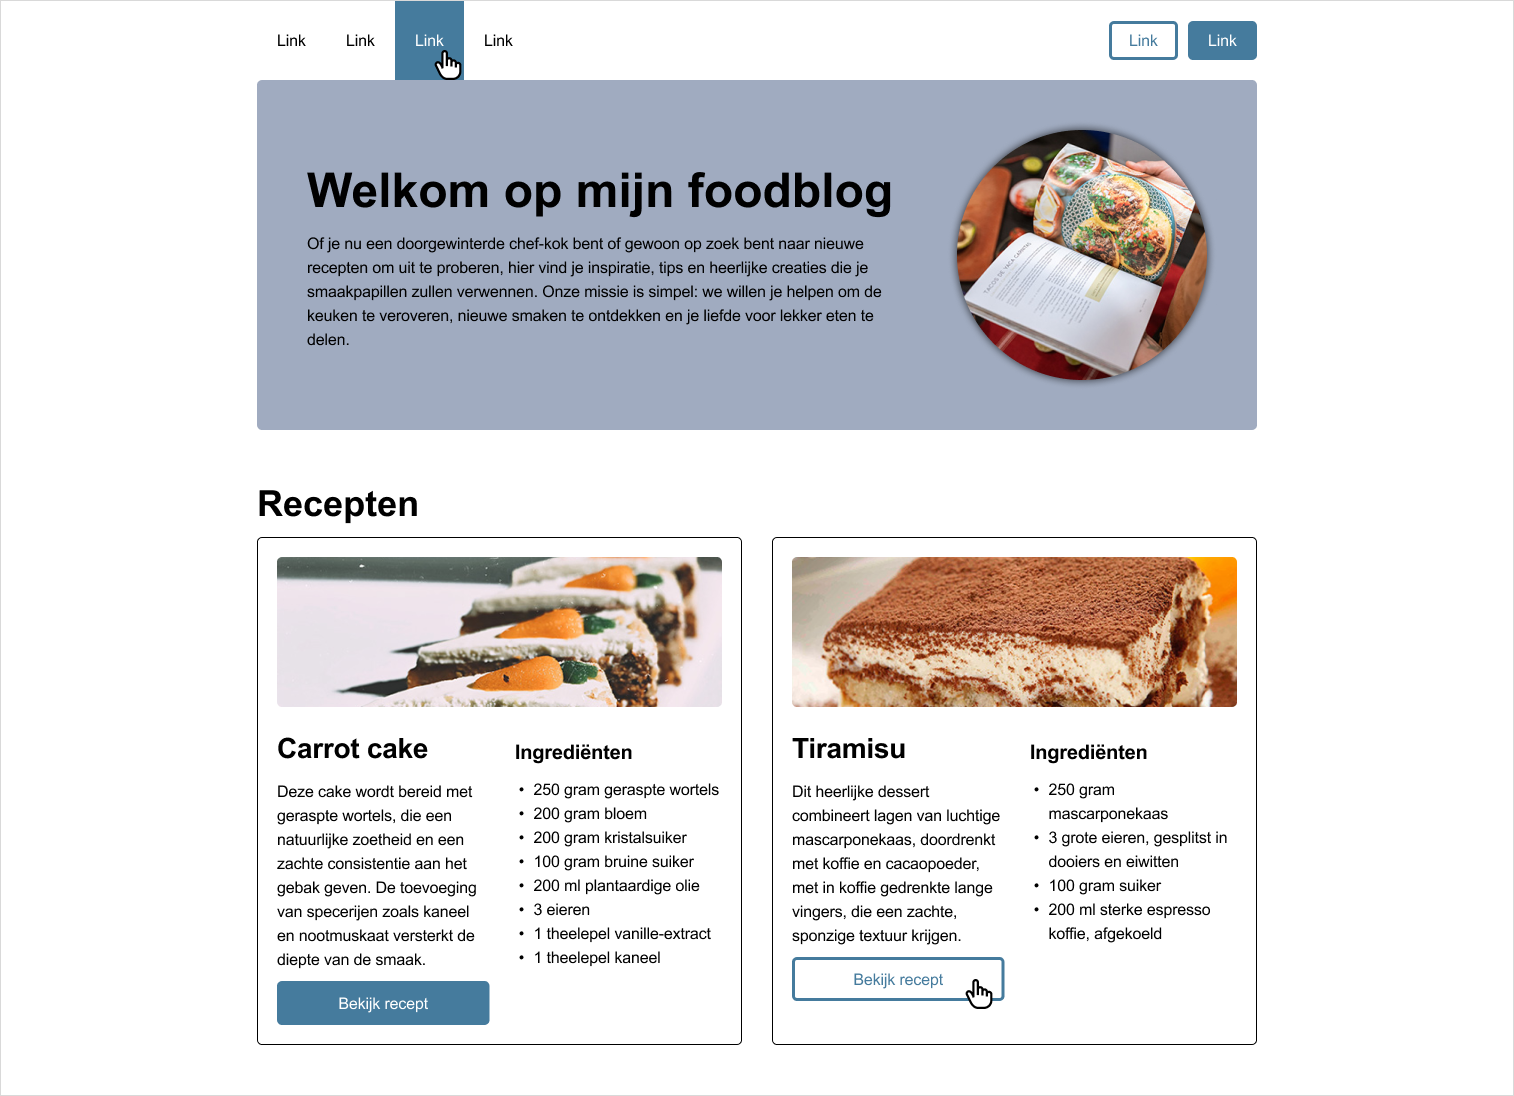
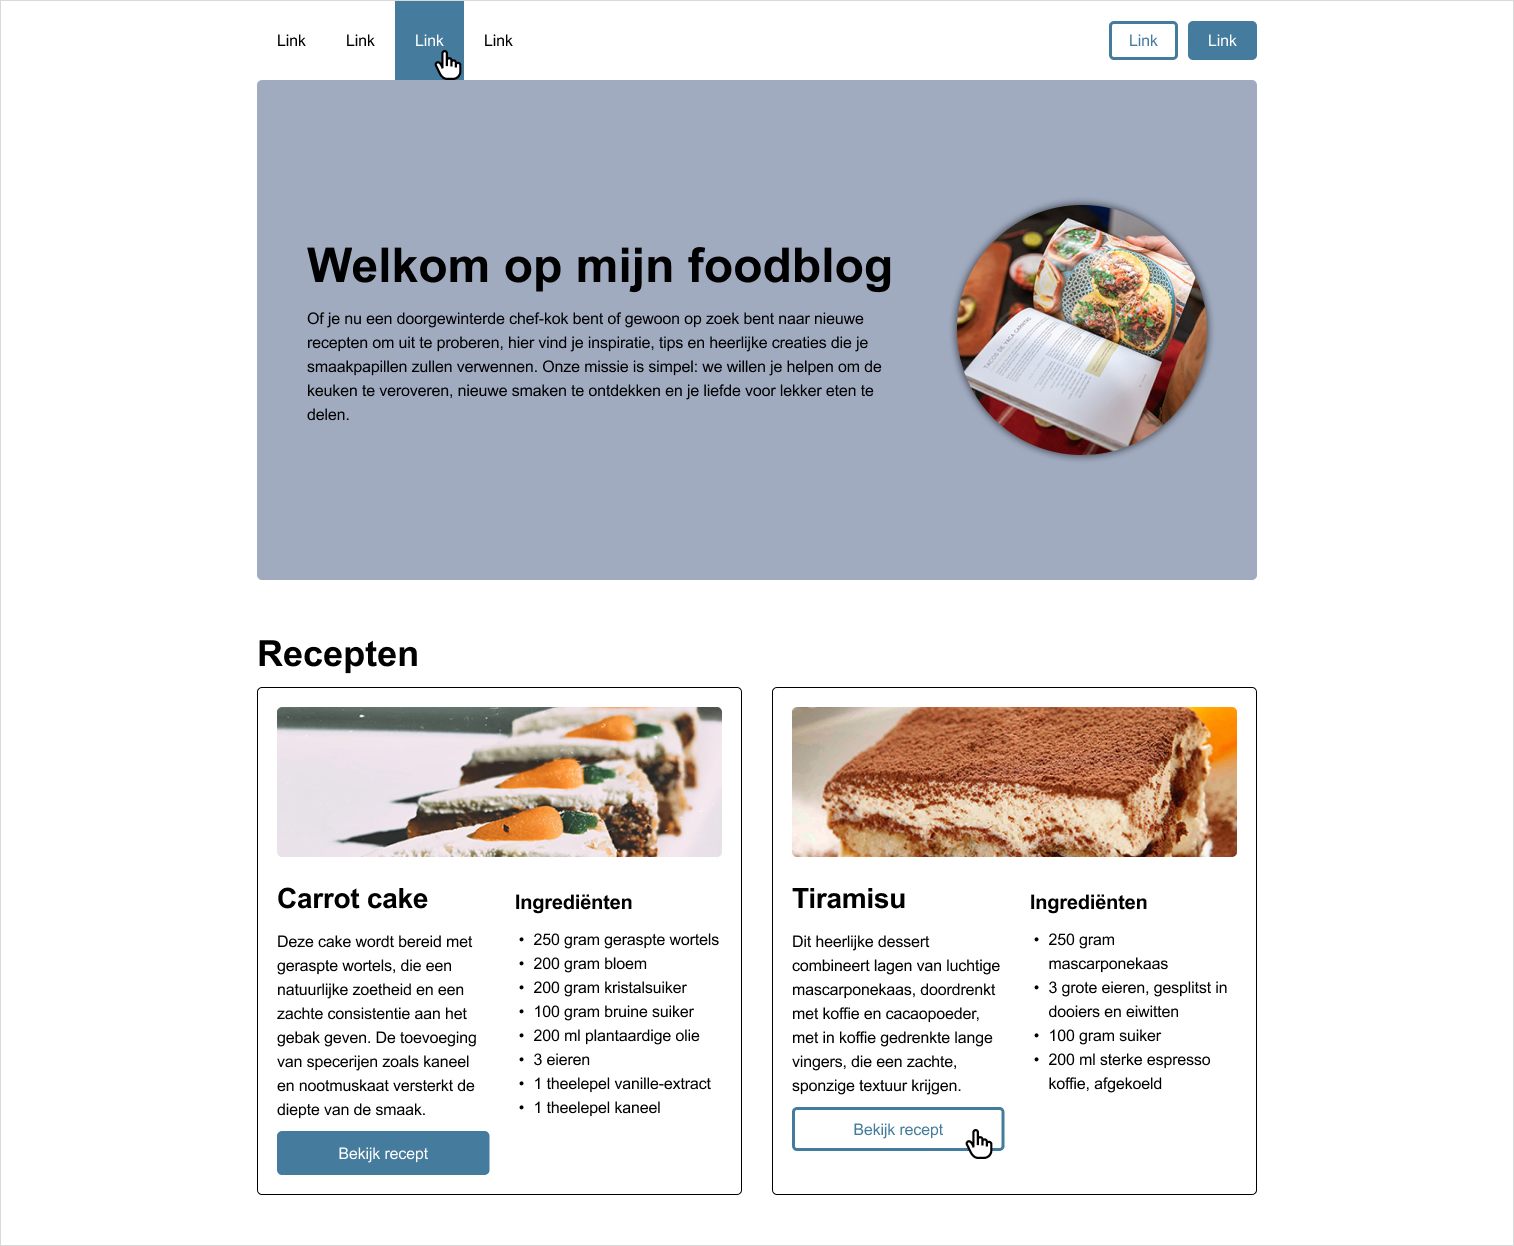
Update

Changed region(s): [[0.1552, 0.0, 0.8382, 0.9617], [0.1863, 0.1551, 0.5898, 0.3412]]

diff --git a/les2/README.md b/les2/README.md
@@ -371,7 +371,7 @@ Je hebt hier het volgende voor nodig:
 
 Breidt jouw webpagina uit door gebruik te maken van absoliute en relatieve units. Voer de volgende stappen uit:
 
-- Zorg ervoor dat de header de helft van de hoogte van het scherm is;
+- Zorg ervoor dat de `<header>` de helft van de hoogte van het scherm is;
 - Voeg de afbeeldingen van de Pokémon toe in een wit vierkant van 150px. Zorg ervoor dat de afbeelding altijd zo breed is als het vierkant (de hoogte groeit dan automatisch mee). De benodigde afbeeldingen staan in de map `les2/resources`.
 
 <img src="./images/Opdracht4.png" alt="Opdracht 4" title="Opdracht 4" width="1012">
@@ -381,7 +381,7 @@ Breidt jouw webpagina uit door gebruik te maken van absoliute en relatieve units
 Je hebt hier het volgende voor nodig:
 
 | HTML | CSS     | Gebruikte kleuren |
-| ---- |---------| ----------------- |
+| ---- | ------- | ----------------- |
 | -    | vh      | -                 |
 |      | px      |                   |
 |      | %       |                   |
